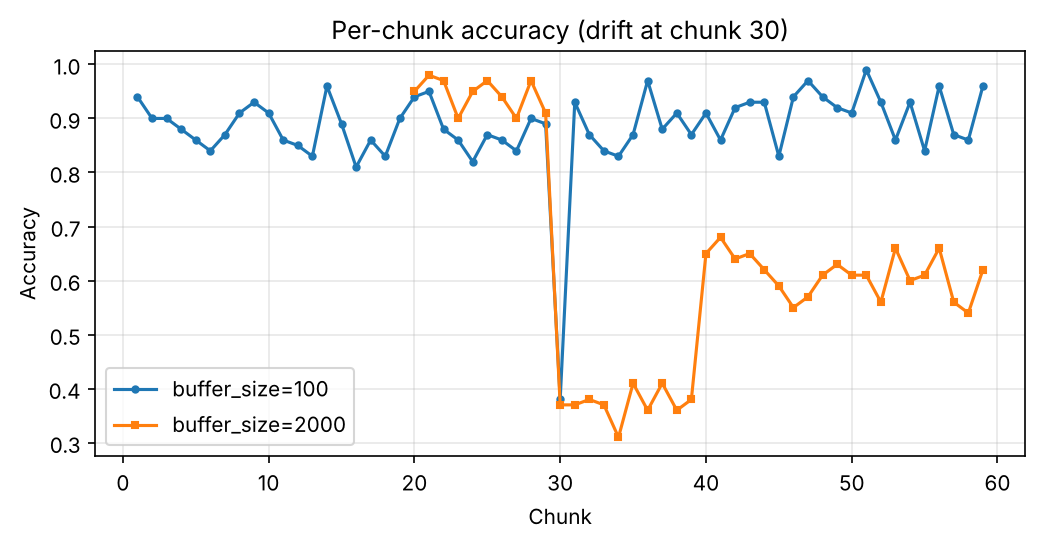
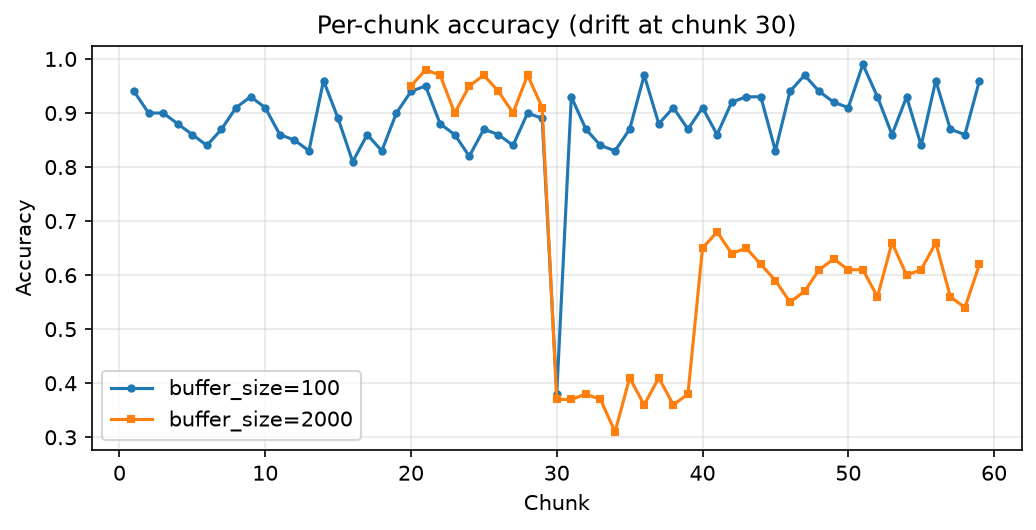
Update benchmark results (Windows, i7-1165G7)

diff --git a/README.md b/README.md
@@ -110,26 +110,26 @@ Reproduce with:
 python -m numcompute_stream.benchmarking     # writes benchmark/*.csv and buffer_size_accuracy.png
 ```
 
-Environment: Intel Xeon @ 2.10 GHz (2 cores), Linux, Python 3.13, NumPy 2.5.3; best of 5 runs.
+Environment: Intel Core i7-1165G7 @ 2.80 GHz (4 cores), 16 GB RAM, Windows, Python 3.14.3, NumPy 2.3.5; best of 5 runs.
 
 **(a) Loop vs vectorised.** Both versions get the same input and return the same full output. The benchmark compares the outputs first and only times them if they match (`outputs_match` column in the CSV).
 
 | Operation | Output compared | n | Python loop (ms) | Vectorised (ms) | Speed-up (×) |
 | --- | --- | ---: | ---: | ---: | ---: |
-| Split search (one node, 4 features) | best (feature, threshold, gain) | 300 | 81.76 | 0.41 | 201.7 |
-| Tree predict (depth 8) | predicted labels | 5,000 | 28.65 | 1.17 | 24.6 |
-| Running mean / variance | per-feature mean and variance | 5,000 | 23.89 | 0.66 | 36.1 |
-| Confusion matrix | k × k count matrix | 5,000 | 1.65 | 0.14 | 11.8 |
+| Split search (one node, 4 features) | best (feature, threshold, gain) | 300 | 99.20 | 0.30 | 329.0 |
+| Tree predict (depth 8) | predicted labels | 5,000 | 23.14 | 0.65 | 35.7 |
+| Running mean / variance | per-feature mean and variance | 5,000 | 22.41 | 0.49 | 45.5 |
+| Confusion matrix | k × k count matrix | 5,000 | 1.26 | 0.20 | 6.3 |
 
 **(b) `buffer_size` under streaming.** 6,000 samples in chunks of 100, with a concept drift at sample 3,000. Accuracy is test-then-train (prequential).
 
 | buffer_size | Cumulative accuracy | Retrains | Total retrain time (ms) | Mean retrain time (ms) | First scored chunk |
 | ---: | ---: | ---: | ---: | ---: | ---: |
-| 100 | 0.884 | 60 | 105.4 | 1.76 | 1 |
-| 250 | 0.889 | 20 | 75.3 | 3.77 | 3 |
-| 500 | 0.875 | 12 | 64.9 | 5.41 | 5 |
-| 1000 | 0.823 | 6 | 54.4 | 9.07 | 10 |
-| 2000 | 0.634 | 3 | 51.3 | 17.09 | 20 |
+| 100 | 0.884 | 60 | 75.6 | 1.26 | 1 |
+| 250 | 0.889 | 20 | 57.3 | 2.86 | 3 |
+| 500 | 0.875 | 12 | 47.6 | 3.96 | 5 |
+| 1000 | 0.823 | 6 | 40.5 | 6.75 | 10 |
+| 2000 | 0.634 | 3 | 37.1 | 12.35 | 20 |
 
 Larger buffers retrain less often, so total retraining time falls (it levels off at large buffers because each tree costs O(n log n) in the buffer size). Each retrain is slower, though, because it uses more data. They also react to the drift later. With `buffer_size=2000`, the retrain after the drift mixes the old and new concepts, which is why its accuracy stays low (see `benchmark/buffer_size_accuracy.png`).
 
